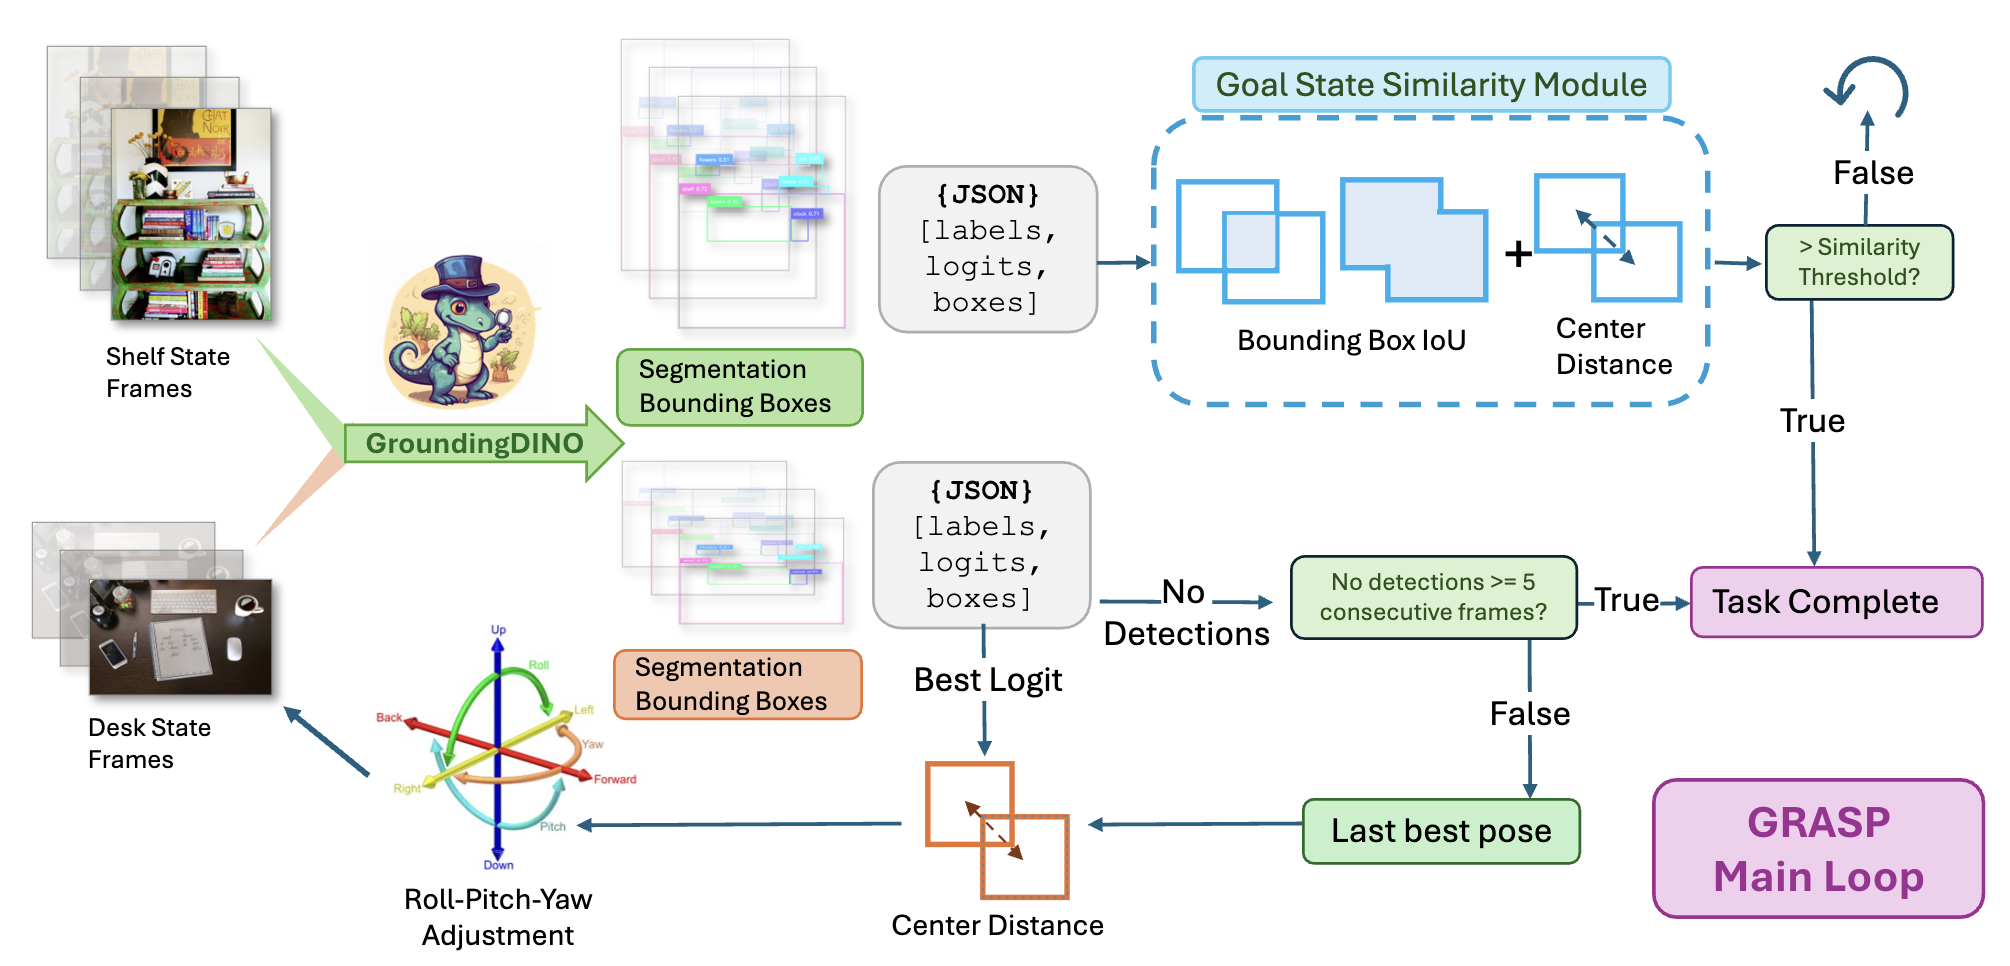
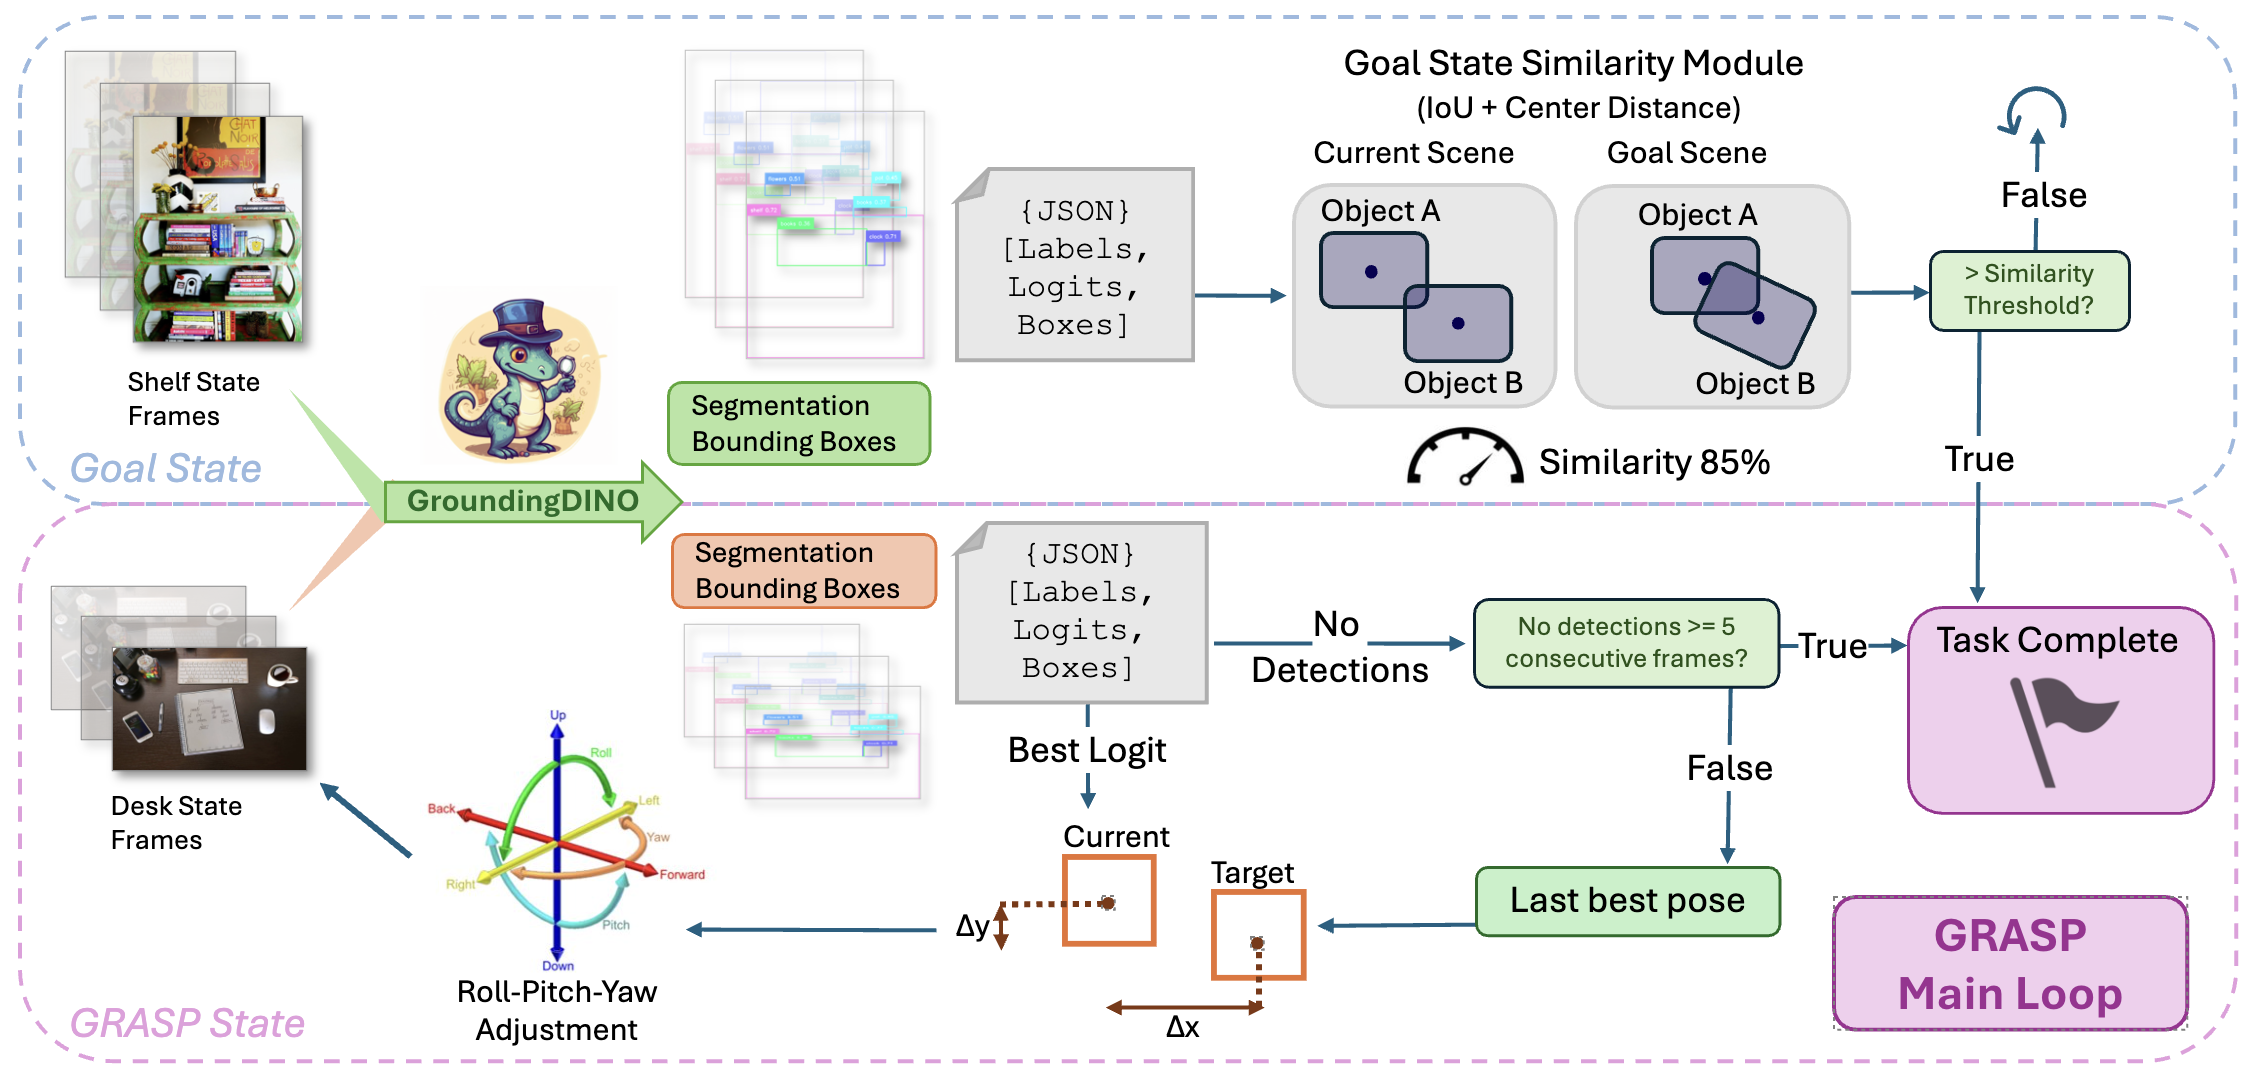
new figure

diff --git a/index.html b/index.html
@@ -63,8 +63,8 @@
 <section class="section grasp-section-light" id="teaser">
   <div class="container is-max-desktop">
     <div class="figure-block visible">
-      <img src="./figures/fig0.png" alt="GRASP teaser: user input, task execution, and goal state">
-      <p class="figure-caption">Given a natural language instruction, GRASP grounds it into a symbolic goal state, executes the manipulation task, and evaluates completion via bounding box similarity.</p>
+      <img src="./figures/fig2.png" alt="GRASP main loop architecture">
+      <p class="figure-caption"><strong>Figure 2.</strong> The GRASP main loop. GroundingDINO detects objects from shelf and desk frames; the Goal State Similarity Module computes IoU and center distance; Roll-Pitch-Yaw adjustments close the loop until the similarity threshold is met.</p>
     </div>
   </div>
 </section>
@@ -152,8 +152,8 @@
     </div>
 
     <div class="figure-block">
-      <img src="./figures/fig2.png" alt="GRASP main loop architecture">
-      <p class="figure-caption"><strong>Figure 2.</strong> The GRASP main loop. GroundingDINO detects objects from shelf and desk frames; the Goal State Similarity Module computes IoU and center distance; Roll-Pitch-Yaw adjustments close the loop until the similarity threshold is met.</p>
+      <img src="./figures/fig0.png" alt="GRASP teaser: user input, task execution, and goal state">
+      <p class="figure-caption">Given a natural language instruction, GRASP grounds it into a symbolic goal state, executes the manipulation task, and evaluates completion via bounding box similarity.</p>
     </div>
   </div>
 </section>

diff --git a/static/css/index.css b/static/css/index.css
@@ -27,8 +27,10 @@ body {
 /* ─── Hero ─────────────────────────────────────────────────── */
 .hero .hero-body {
   padding-top: 3rem;
-  padding-bottom: 2.5rem;
+  padding-bottom: 0.75rem;
 }
+
+#teaser { padding-top: 0.75rem; }
 
 .publication-title {
   font-family: 'Google Sans', sans-serif;